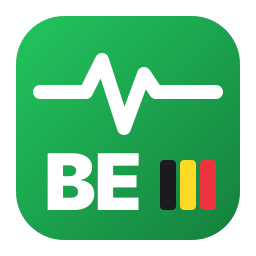
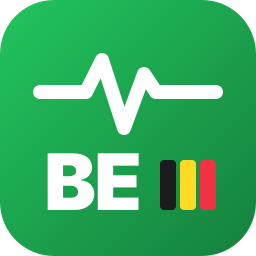
0.3.0: meet HA brand and HACS requirements, diagnostics, HA tests
- Icons fill the whole square (trimmed), all brand PNGs optimised and
  interlaced as the brands specification asks.
- MIT licence.
- Diagnostics download with the raw answer of every source.
- Setup retries when no source answers at all; a single failing source
  still does not block the others.
- Per-state icons for the status sensors.
- README: how to remove the integration.
- Tests now also run inside Home Assistant (config flow, options flow,
  migration, failing sources, diagnostics) on Python 3.14 in CI.
- HACS validation runs on every push again; no more nightly runs.

Claude-Session: https://claude.ai/code/session_01BGj8LRW7kkYCc6Lk8qeAkJ

Changed region(s): [[0.0, 0.0, 1.0, 1.0]]

diff --git a/tests/test_ha.py b/tests/test_ha.py
@@ -1,0 +1,233 @@
+"""Tests that run inside Home Assistant (CI only: needs pytest-homeassistant-custom-component)."""
+
+from __future__ import annotations
+
+from typing import Any
+from unittest.mock import patch
+
+import pytest
+
+pytest.importorskip("pytest_homeassistant_custom_component")
+
+from homeassistant import config_entries  # noqa: E402
+from homeassistant.config_entries import ConfigEntryState  # noqa: E402
+from homeassistant.core import HomeAssistant  # noqa: E402
+from homeassistant.data_entry_flow import FlowResultType  # noqa: E402
+from homeassistant.helpers import device_registry as dr  # noqa: E402
+from homeassistant.helpers import entity_registry as er  # noqa: E402
+from pytest_homeassistant_custom_component.common import MockConfigEntry  # noqa: E402
+
+from custom_components.be_health_status.const import DOMAIN  # noqa: E402
+from custom_components.be_health_status.diagnostics import (  # noqa: E402
+    async_get_config_entry_diagnostics,
+)
+from custom_components.be_health_status.providers import PROVIDERS, ProviderError  # noqa: E402
+from custom_components.be_health_status.providers.arvato import parse_arvato  # noqa: E402
+from custom_components.be_health_status.providers.ehealth import parse_ehealth  # noqa: E402
+from custom_components.be_health_status.providers.ibz import parse_ibz  # noqa: E402
+from custom_components.be_health_status.providers.intermut import parse_intermut  # noqa: E402
+from custom_components.be_health_status.providers.pagerduty import parse_pagerduty  # noqa: E402
+from custom_components.be_health_status.providers.statuspage import parse_statuspage  # noqa: E402
+
+IAM = "group:AXAQooF-9v9nOdhekPYm"
+RECIP = "944b9851f3bd2e4c4ca869a9d1e6d345"
+
+
+@pytest.fixture
+def snapshots(load_json, load_text) -> dict[str, Any]:
+    """What every provider type answers; set a value to an exception to make it fail."""
+    return {
+        "ehealth": parse_ehealth(load_json("ehealth_components.json"), "nl"),
+        "statuspage": parse_statuspage(load_json("statuspage_summary.json")),
+        "pagerduty": parse_pagerduty(
+            load_json("pagerduty_services.json"),
+            load_json("pagerduty_impacted.json"),
+            load_json("pagerduty_post_enums.json"),
+        ),
+        "arvato_nmvs": parse_arvato(load_json("arvato_services.json")),
+        "ibz": parse_ibz(load_text("ibz_rijksregister.html"), "nl"),
+        "intermut": parse_intermut(load_text("intermut_pharma.html"), "nl"),
+    }
+
+
+@pytest.fixture(autouse=True)
+def mock_fetch(snapshots):
+    """Replace every provider's network call by the fixtures above."""
+
+    def make(provider_type: str):
+        async def fetch(self, session):
+            answer = snapshots[provider_type]
+            if isinstance(answer, Exception):
+                raise answer
+            return answer
+
+        return fetch
+
+    patches = [patch.object(cls, "async_fetch", make(ptype)) for ptype, cls in PROVIDERS.items()]
+    for p in patches:
+        p.start()
+    yield
+    for p in patches:
+        p.stop()
+
+
+async def _setup_via_flow(hass: HomeAssistant) -> config_entries.ConfigEntry:
+    """Add eHealth (IAM + Recip-e) and itsme (defaults) through the config flow."""
+    result = await hass.config_entries.flow.async_init(DOMAIN, context={"source": config_entries.SOURCE_USER})
+    assert result["type"] is FlowResultType.FORM
+    assert result["step_id"] == "user"
+
+    result = await hass.config_entries.flow.async_configure(result["flow_id"], {"topics": ["itsme", "ehealth"]})
+    assert result["step_id"] == "components"
+    assert result["description_placeholders"]["source"] == "eHealth"  # topics keep their fixed order
+    result = await hass.config_entries.flow.async_configure(result["flow_id"], {"components": [IAM, RECIP]})
+
+    assert result["step_id"] == "components"
+    assert result["description_placeholders"]["source"] == "itsme"
+    result = await hass.config_entries.flow.async_configure(result["flow_id"], {})  # keep the pre-selection
+    assert result["type"] is FlowResultType.CREATE_ENTRY
+    await hass.async_block_till_done()
+    return result["result"]
+
+
+async def test_full_flow_creates_entry_and_entities(hass: HomeAssistant) -> None:
+    entry = await _setup_via_flow(hass)
+    assert entry.state is ConfigEntryState.LOADED
+    assert entry.title == "BE Health Status"
+    assert entry.options["topics"] == ["ehealth", "itsme"]
+    assert set(entry.options["components"]["ehealth"]) == {IAM, RECIP}
+    assert len(entry.options["components"]["itsme"]) == 8
+
+    registry = er.async_get(hass)
+    recip = registry.async_get_entity_id("sensor", DOMAIN, f"ehealth_c_{RECIP}")
+    iam = registry.async_get_entity_id("sensor", DOMAIN, f"ehealth_c_{IAM}")
+    assert hass.states.get(recip).state == "operational"
+    assert hass.states.get(recip).attributes["raw_status"] == "Operationeel"
+    assert hass.states.get(iam).state == "partial_outage"
+
+    overall = registry.async_get_entity_id("sensor", DOMAIN, "ehealth_overall")
+    assert hass.states.get(overall).state == "partial_outage"
+    problem = registry.async_get_entity_id("binary_sensor", DOMAIN, "ehealth_problem")
+    assert hass.states.get(problem).state == "on"
+
+    maint = registry.async_get_entity_id("sensor", DOMAIN, "itsme_next_maintenance")
+    assert hass.states.get(maint).state.startswith("2026-11-16T21:00:00")
+
+    devices = dr.async_entries_for_config_entry(dr.async_get(hass), entry.entry_id)
+    assert {d.name for d in devices} == {"eHealth", "itsme"}
+
+
+async def test_only_one_entry(hass: HomeAssistant) -> None:
+    await _setup_via_flow(hass)
+    result = await hass.config_entries.flow.async_init(DOMAIN, context={"source": config_entries.SOURCE_USER})
+    assert result["type"] is FlowResultType.ABORT
+    assert result["reason"] == "already_configured"
+
+
+async def test_no_topics_and_sectors_errors(hass: HomeAssistant) -> None:
+    result = await hass.config_entries.flow.async_init(DOMAIN, context={"source": config_entries.SOURCE_USER})
+    result = await hass.config_entries.flow.async_configure(result["flow_id"], {"topics": []})
+    assert result["errors"] == {"base": "no_topics"}
+
+    result = await hass.config_entries.flow.async_configure(result["flow_id"], {"topics": ["mycarenet"]})
+    assert result["step_id"] == "sectors"
+    result = await hass.config_entries.flow.async_configure(result["flow_id"], {"sectors": []})
+    assert result["errors"] == {"base": "no_sectors"}
+
+    result = await hass.config_entries.flow.async_configure(result["flow_id"], {"sectors": ["pharma", "nurses"]})
+    assert result["step_id"] == "components"
+    assert result["description_placeholders"]["source"] == "MyCareNet apothekers"
+    result = await hass.config_entries.flow.async_configure(result["flow_id"], {})
+    assert result["description_placeholders"]["source"] == "MyCareNet verpleegkundigen"
+    result = await hass.config_entries.flow.async_configure(result["flow_id"], {})
+    assert result["type"] is FlowResultType.CREATE_ENTRY
+    assert set(result["result"].options["sources"]) == {"mycarenet_pharma", "mycarenet_nurses"}
+
+
+async def test_unreachable_source_retry_and_skip(hass: HomeAssistant, snapshots) -> None:
+    good = snapshots["ibz"]
+    snapshots["ibz"] = ProviderError("down")
+    result = await hass.config_entries.flow.async_init(DOMAIN, context={"source": config_entries.SOURCE_USER})
+    result = await hass.config_entries.flow.async_configure(result["flow_id"], {"topics": ["rijksregister", "nmvs"]})
+    assert result["step_id"] == "components"  # NMVS comes first and answers
+    result = await hass.config_entries.flow.async_configure(result["flow_id"], {})
+    assert result["step_id"] == "unreachable"
+    assert result["description_placeholders"]["source"] == "Rijksregister"
+
+    # Retry while still down: same step again
+    result = await hass.config_entries.flow.async_configure(result["flow_id"], {"skip": False})
+    assert result["step_id"] == "unreachable"
+    # Back up: retry shows the services
+    snapshots["ibz"] = good
+    result = await hass.config_entries.flow.async_configure(result["flow_id"], {"skip": False})
+    assert result["step_id"] == "components"
+    result = await hass.config_entries.flow.async_configure(result["flow_id"], {})
+    assert result["type"] is FlowResultType.CREATE_ENTRY
+    assert sorted(result["result"].options["components"]["nmvs"]) == ["belgium-api-cer", "belgium-sg", "belgium-ws"]
+
+
+async def test_options_flow_removes_untracked_topic(hass: HomeAssistant) -> None:
+    entry = await _setup_via_flow(hass)
+    registry = er.async_get(hass)
+    assert registry.async_get_entity_id("sensor", DOMAIN, "itsme_overall")
+
+    result = await hass.config_entries.options.async_init(entry.entry_id)
+    assert result["step_id"] == "init"
+    result = await hass.config_entries.options.async_configure(result["flow_id"], {"topics": ["ehealth"]})
+    assert result["step_id"] == "components"
+    # previous choice is pre-filled; keep only Recip-e
+    result = await hass.config_entries.options.async_configure(result["flow_id"], {"components": [RECIP]})
+    assert result["type"] is FlowResultType.CREATE_ENTRY
+    await hass.async_block_till_done()
+
+    assert registry.async_get_entity_id("sensor", DOMAIN, "itsme_overall") is None
+    assert registry.async_get_entity_id("sensor", DOMAIN, f"ehealth_c_{IAM}") is None
+    assert registry.async_get_entity_id("sensor", DOMAIN, f"ehealth_c_{RECIP}")
+    devices = dr.async_entries_for_config_entry(dr.async_get(hass), entry.entry_id)
+    assert {d.name for d in devices} == {"eHealth"}
+
+
+async def test_one_failing_source_does_not_block_others(hass: HomeAssistant, snapshots) -> None:
+    entry = await _setup_via_flow(hass)
+    snapshots["statuspage"] = ProviderError("down")
+    await hass.config_entries.async_reload(entry.entry_id)
+    await hass.async_block_till_done()
+    assert entry.state is ConfigEntryState.LOADED
+    registry = er.async_get(hass)
+    assert hass.states.get(registry.async_get_entity_id("sensor", DOMAIN, "itsme_overall")).state == "unavailable"
+    assert hass.states.get(registry.async_get_entity_id("sensor", DOMAIN, f"ehealth_c_{RECIP}")).state == "operational"
+
+
+async def test_all_sources_failing_retries_setup(hass: HomeAssistant, snapshots) -> None:
+    entry = await _setup_via_flow(hass)
+    snapshots["statuspage"] = ProviderError("down")
+    snapshots["ehealth"] = ProviderError("down")
+    await hass.config_entries.async_reload(entry.entry_id)
+    await hass.async_block_till_done()
+    assert entry.state is ConfigEntryState.SETUP_RETRY
+
+
+async def test_migrate_from_0_1(hass: HomeAssistant) -> None:
+    entry = MockConfigEntry(
+        domain=DOMAIN,
+        version=1,
+        title="eHealth",
+        unique_id="ehealth_nl",
+        data={"provider": "ehealth", "params": {"language": "nl"}},
+        options={"components": [RECIP]},
+    )
+    entry.add_to_hass(hass)
+    await hass.config_entries.async_setup(entry.entry_id)
+    await hass.async_block_till_done()
+    assert entry.version == 2
+    assert entry.state is ConfigEntryState.LOADED
+    assert entry.options["sources"]["ehealth"]["provider"] == "ehealth"
+    sensor = er.async_get(hass).async_get_entity_id("sensor", DOMAIN, f"ehealth_c_{RECIP}")
+    assert hass.states.get(sensor).name == "eHealth Recip-e Patient"
+
+
+async def test_diagnostics(hass: HomeAssistant) -> None:
+    entry = await _setup_via_flow(hass)
+    diag = await async_get_config_entry_diagnostics(hass, entry)
+    assert diag["sources"]["ehealth"]["last_update_success"] is True
+    assert RECIP in diag["sources"]["ehealth"]["snapshot"]["components"]

diff --git a/tests/conftest.py b/tests/conftest.py
@@ -18,7 +18,14 @@ ROOT = Path(__file__).resolve().parents[1]
 PKG_DIR = ROOT / "custom_components" / "be_health_status"
 FIXTURES = Path(__file__).parent / "fixtures"
 
-if "aiohttp" not in sys.modules:
+try:  # With Home Assistant installed (CI), load the real integration package.
+    import homeassistant  # noqa: F401
+
+    HAS_HA = True
+except ImportError:
+    HAS_HA = False
+
+if not HAS_HA and "aiohttp" not in sys.modules:
     try:
         import aiohttp  # noqa: F401
     except ImportError:
@@ -37,14 +44,22 @@ if "aiohttp" not in sys.modules:
         sys.modules["aiohttp"] = stub
 
 sys.path.insert(0, str(ROOT))
-for name, path in (
-    ("custom_components", ROOT / "custom_components"),
-    ("custom_components.be_health_status", PKG_DIR),
-):
-    if name not in sys.modules:
-        mod = types.ModuleType(name)
-        mod.__path__ = [str(path)]
-        sys.modules[name] = mod
+if not HAS_HA:
+    for name, path in (
+        ("custom_components", ROOT / "custom_components"),
+        ("custom_components.be_health_status", PKG_DIR),
+    ):
+        if name not in sys.modules:
+            mod = types.ModuleType(name)
+            mod.__path__ = [str(path)]
+            sys.modules[name] = mod
+else:
+    # pytest-homeassistant-custom-component registers itself as a pytest plugin.
+
+    @pytest.fixture(autouse=True)
+    def auto_enable_custom_integrations(enable_custom_integrations):
+        """Let Home Assistant load custom_components/be_health_status in every test."""
+        return
 
 
 @pytest.fixture

diff --git a/custom_components/be_health_status/diagnostics.py b/custom_components/be_health_status/diagnostics.py
@@ -1,0 +1,41 @@
+"""Diagnostics download: what each source answered, to help debugging."""
+
+from __future__ import annotations
+
+from dataclasses import asdict
+from typing import Any
+
+from homeassistant.core import HomeAssistant
+
+from .coordinator import HealthStatusConfigEntry
+
+
+async def async_get_config_entry_diagnostics(
+    hass: HomeAssistant, entry: HealthStatusConfigEntry
+) -> dict[str, Any]:
+    """Return the settings and the last answer of every source.
+
+    Everything here comes from public status pages; nothing needs redacting.
+    """
+    sources: dict[str, Any] = {}
+    for key, source in entry.runtime_data.items():
+        coordinator = source.coordinator
+        snapshot = coordinator.data
+        sources[key] = {
+            "title": source.title,
+            "provider": coordinator.provider.type,
+            "url": coordinator.provider.url,
+            "last_update_success": coordinator.last_update_success,
+            "last_exception": repr(coordinator.last_exception) if coordinator.last_exception else None,
+            "selected": source.components,
+            "snapshot": (
+                {
+                    "title": snapshot.title,
+                    "components": {cid: asdict(c) for cid, c in snapshot.components.items()},
+                    "events": [asdict(e) for e in snapshot.events],
+                }
+                if snapshot
+                else None
+            ),
+        }
+    return {"options": dict(entry.options), "sources": sources}

diff --git a/custom_components/be_health_status/__init__.py b/custom_components/be_health_status/__init__.py
@@ -6,6 +6,7 @@ import asyncio
 
 from homeassistant.const import Platform
 from homeassistant.core import HomeAssistant
+from homeassistant.exceptions import ConfigEntryNotReady
 from homeassistant.helpers import device_registry as dr
 
 from .const import CONF_COMPONENTS, CONF_SECTORS, CONF_SOURCES, CONF_TOPICS, DOMAIN
@@ -31,6 +32,11 @@ async def async_setup_entry(hass: HomeAssistant, entry: HealthStatusConfigEntry)
             components=dict(components.get(key, {})),
         )
     await asyncio.gather(*(r.coordinator.async_refresh() for r in runtime.values()))
+    if runtime and not any(r.coordinator.last_update_success for r in runtime.values()):
+        # Nothing answered at all: most likely no internet. Let Home Assistant retry.
+        raise ConfigEntryNotReady(
+            "; ".join(f"{r.title}: {r.coordinator.last_exception}" for r in runtime.values())
+        )
     entry.runtime_data = runtime
 
     # Remove devices of sources that are no longer followed.

diff --git a/README.md b/README.md
@@ -80,6 +80,16 @@ Every topic you follow appears as its own device, with on top of that:
 Want to follow something else later? Open the integration and click **Configure**: you go through the
 same steps, with your current choices filled in.
 
+## Removing the integration
+
+1. *Settings → Devices & services → BE Health Status* → the three dots → **Delete**.
+   All its devices and sensors are removed with it.
+2. To remove the files too: *Settings → Marketplace* (or HACS) → **BE Health Status** → **Remove**,
+   then restart Home Assistant.
+
+Want to stop following just one topic instead? Use **Configure** and untick it: its device and sensors
+are cleaned up automatically.
+
 ## Get a message when something breaks
 
 This automation sends a notification to your phone when eHealth has a problem, and tells you which
@@ -123,7 +133,10 @@ actions:
 - Added once; every followed topic (and every MyCareNet sector) is a device with: a status sensor per selected service, `Overall status`,
   `Problem` (binary sensor, attributes `affected` and `incidents`), and `Next maintenance` for
   itsme.
-- Polls every minute, 30 s timeout. No extra Python requirements. Works on Home Assistant 2025.8 and
+- Polls every minute, 30 s timeout. When none of the sources answers at start-up, Home Assistant retries
+  the setup later; when only some fail, the others keep working.
+- *Download diagnostics* on the integration shows the raw answer of every source.
+- No extra Python requirements. Works on Home Assistant 2025.8 and
   newer (uses `probatio` on 2026.11+, `voluptuous` before).
 - Manual install: copy `custom_components/be_health_status` to your `config/custom_components` folder.
 
